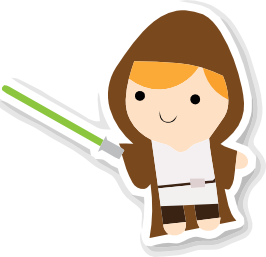
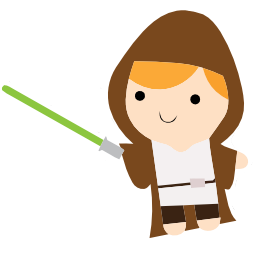
subindo...

diff --git a/_includes/sidebar.html b/_includes/sidebar.html
@@ -1,12 +1,12 @@
 <div class="sidebar">
   <div class="container sidebar-sticky">
+    <center>
+        <img src="../public/jediscript.png" title="Always pass on what you have learned."/>
+    </center>
     <div class="sidebar-about">
       <h1>{{ site.title }}</h1>
       <p class="lead">{{ site.description }}</p>
     </div>
-    <center>
-    <img src="../public/jediscript.png"/>
-    </center>
     <ul class="sidebar-nav">
       <li class="sidebar-nav-item{% if page.title == "Home" %} active{% endif %}">
         <a href="/">Home</a>
@@ -29,8 +29,7 @@
       {% endfor %}
 
       <li class="sidebar-nav-item"><a href="https://twitter.com/jediscript">Twitter</a></li>
-      <!--li class="sidebar-nav-item"><a href="{{ site.github.repo }}">GitHub project</a></li>
-      <li class="sidebar-nav-item">Currently v{{ site.version }}</li-->
+      <!-- “Always pass on what you have learned.” | “Sempre passar o que você aprendeu." -->
     </ul>
 
     <p>&copy; {{ site.time | date: '%Y' }}. All rights reserved.</p>
